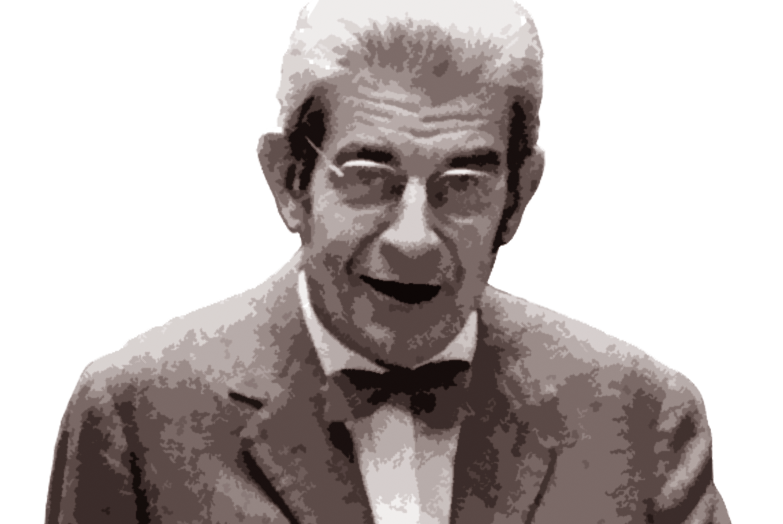
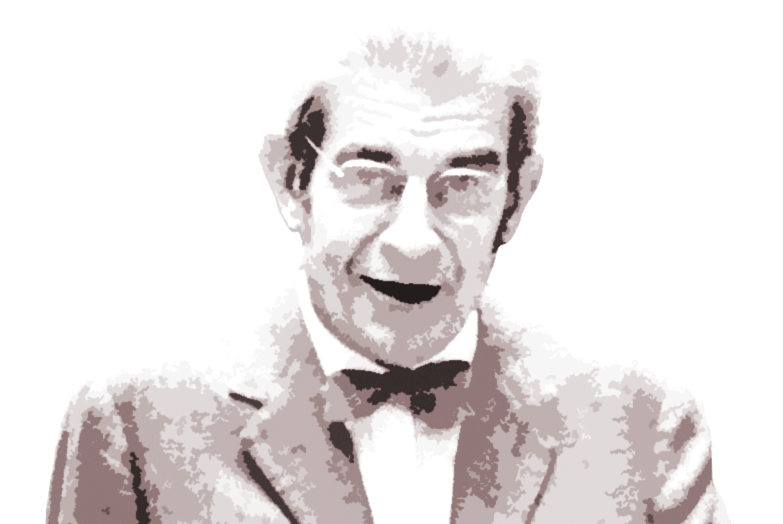
nuovo header

diff --git a/wp-content/themes/lauradarsie/lauradarsie.css b/wp-content/themes/lauradarsie/lauradarsie.css
@@ -60,15 +60,16 @@ body.menu-toggled { overflow-y: hidden; }
     position: absolute;
     bottom: 0;
     right: -250px;
-    animation-name: fadeinout1;
+    animation-name: homeFade;
     animation-duration: 20s;
     animation-delay: 0;
     animation-iteration-count: infinite;
     opacity: 0;
 }
 .site-heroes picture#site-hero-lacan img { 
-    animation-name: fadeinout1;
-    animation-delay: 10s
+    animation-name: homeFade;
+    animation-delay: 10s;
+    right:110px;
 }
 @media all and (min-width: 600px) {
     .site-heroes picture img {
@@ -81,7 +82,7 @@ body.menu-toggled { overflow-y: hidden; }
     }
 }
 
-@keyframes fadeinout1 {
+@keyframes homeFade {
     0% {opacity: 0;}
     25% {opacity: 0.85;}
     50% {opacity: 0.85;}

diff --git a/wp-content/themes/lauradarsie/header.php b/wp-content/themes/lauradarsie/header.php
@@ -36,7 +36,7 @@
 						<img src="<?php echo get_template_directory_uri() ?>/images/lauradarsie-hero-lacan.png" alt="Jacques Lacan" />
 					</figure>
 				</div>
-				<section id="bio-preview" class="bio-expandible">
+				<section id="bio-preview" class="bio-expandible hidden-mobile">
 					<a href="<?php echo get_permalink(2); ?>">
 						<div class="bio-short"><p><?php echo get_the_excerpt( 2 ); ?></p></div>
 						<small class="bio-expander">Continua a leggere</small>
